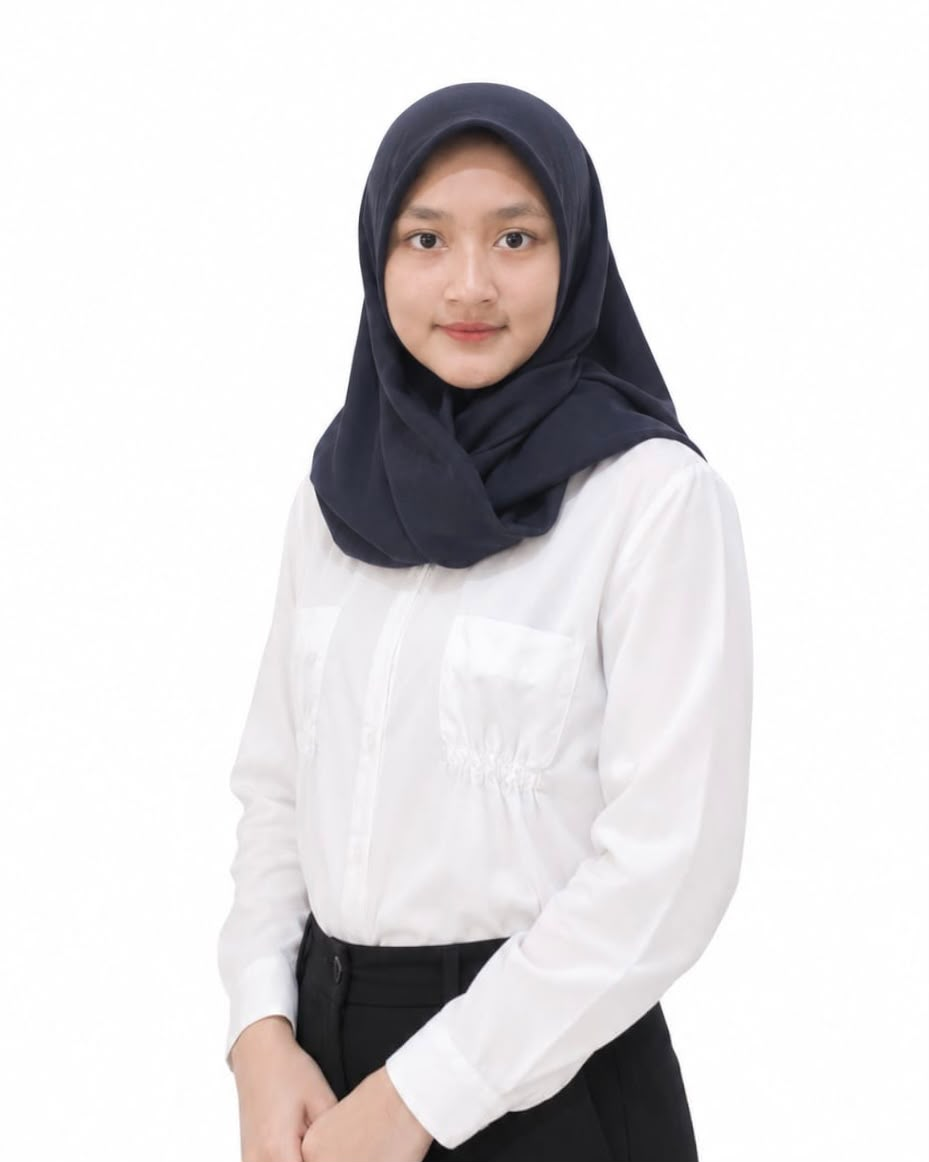
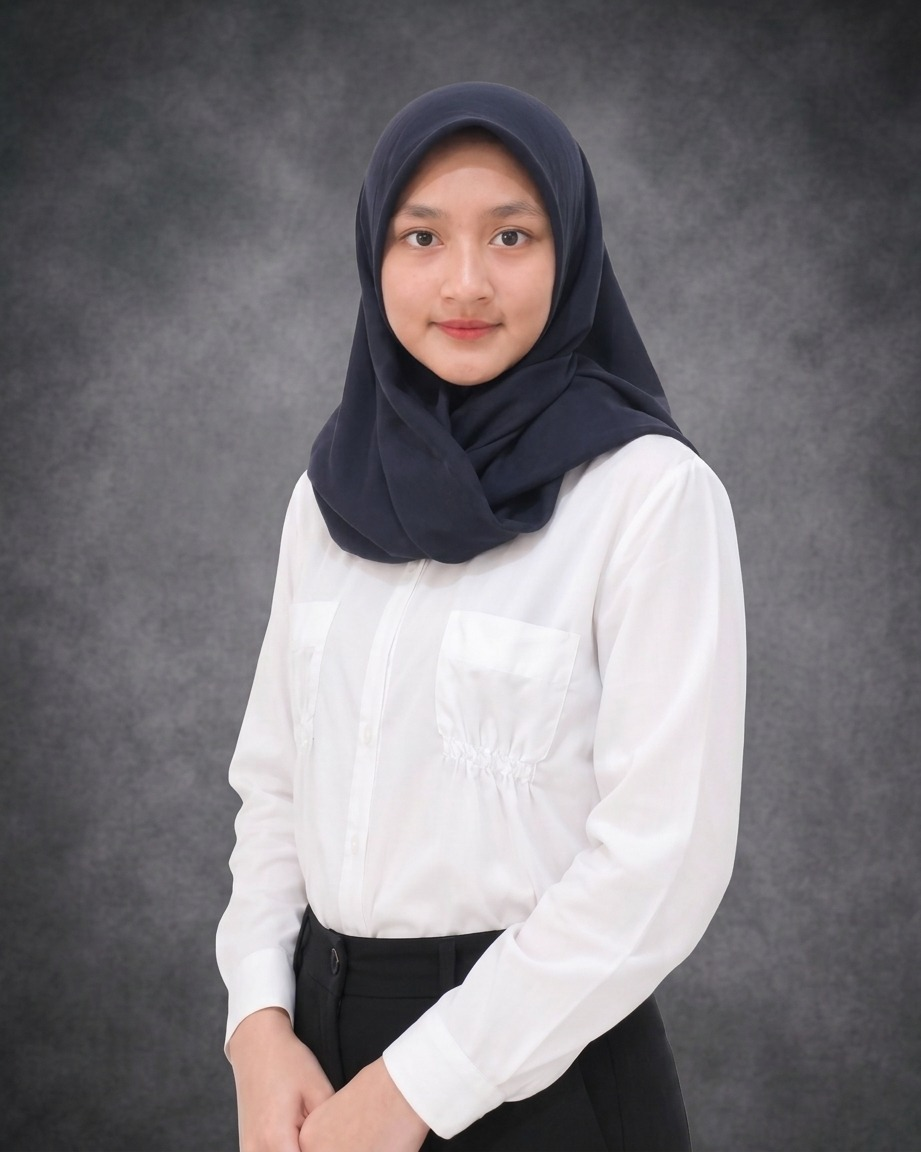
Update Tim Kami: refresh photos, add Bayu/Rangga/Sugeng, remove Ahmat

diff --git a/index.html b/index.html
@@ -251,7 +251,7 @@
             </div>
             <div class="team-grid single">
                 <div class="team-member" onclick="showPage('view-tim')">
-                    <img src="images/indra.png" alt="Indra Setiawan" class="team-img">
+                    <img src="images/indra.jpeg" alt="Indra Setiawan" class="team-img">
                     <h3>Indra Setiawan , S.T., S.H., M.H., Ph.D., CTLC., CMLC., Mediator, Kurator-Pengurus</h3>
                     <p class="role">Managing Partner</p>
                 </div>
@@ -899,7 +899,7 @@
             <div class="team-grid">
                 
                 <div class="team-member">
-                    <img src="images/indra.png" alt="Indra Setiawan" class="team-img">
+                    <img src="images/indra.jpeg" alt="Indra Setiawan" class="team-img">
                     <h3>Indra Setiawan , S.T., S.H., M.H., Ph.D., CTLC., CMLC., Mediator, Kurator-Pengurus</h3>
                     <p class="role">Managing Partner</p>
                 </div>
@@ -911,7 +911,7 @@
                 </div>
 
                 <div class="team-member">
-                    <img src="images/andrianus.jpeg" alt="Andrianus, S.E., BKP, CTA, CTT" class="team-img">
+                    <img src="images/adrianus.jpeg" alt="Andrianus, S.E., BKP, CTA, CTT" class="team-img">
                     <h3>Andrianus, S.E., BKP, CTA, CTT</h3>
                     <p class="role">Ketua Bidang Perpajakan</p>
                 </div>
@@ -919,6 +919,12 @@
                 <div class="team-member">
                     <img src="images/rony.jpeg" alt="Rony Piwulang Jagad, S.H." class="team-img">
                     <h3>Rony Piwulang Jagad, S.H.</h3>
+                    <p class="role">Associate</p>
+                </div>
+
+                <div class="team-member">
+                    <img src="images/sugeng.jpeg" alt="Sugeng Irawan Hadi Erfianto, S.H." class="team-img">
+                    <h3>Sugeng Irawan Hadi Erfianto, S.H.</h3>
                     <p class="role">Associate</p>
                 </div>
 
@@ -941,8 +947,14 @@
                 </div>
 
                 <div class="team-member">
-                    <img src="images/ahmat.jpeg" alt="Ahmat Kholid Arwani, S.H." class="team-img">
-                    <h3>Ahmat Kholid Arwani, S.H.</h3>
+                    <img src="images/bayu.jpeg" alt="Bayu Putra Satya Rama Dhani, S.H." class="team-img">
+                    <h3>Bayu Putra Satya Rama Dhani, S.H.</h3>
+                    <p class="role">Legal Staff</p>
+                </div>
+
+                <div class="team-member">
+                    <img src="images/rangga.jpeg" alt="Rangga Abdi Ramadhan, S.H." class="team-img">
+                    <h3>Rangga Abdi Ramadhan, S.H.</h3>
                     <p class="role">Legal Staff</p>
                 </div>
 
